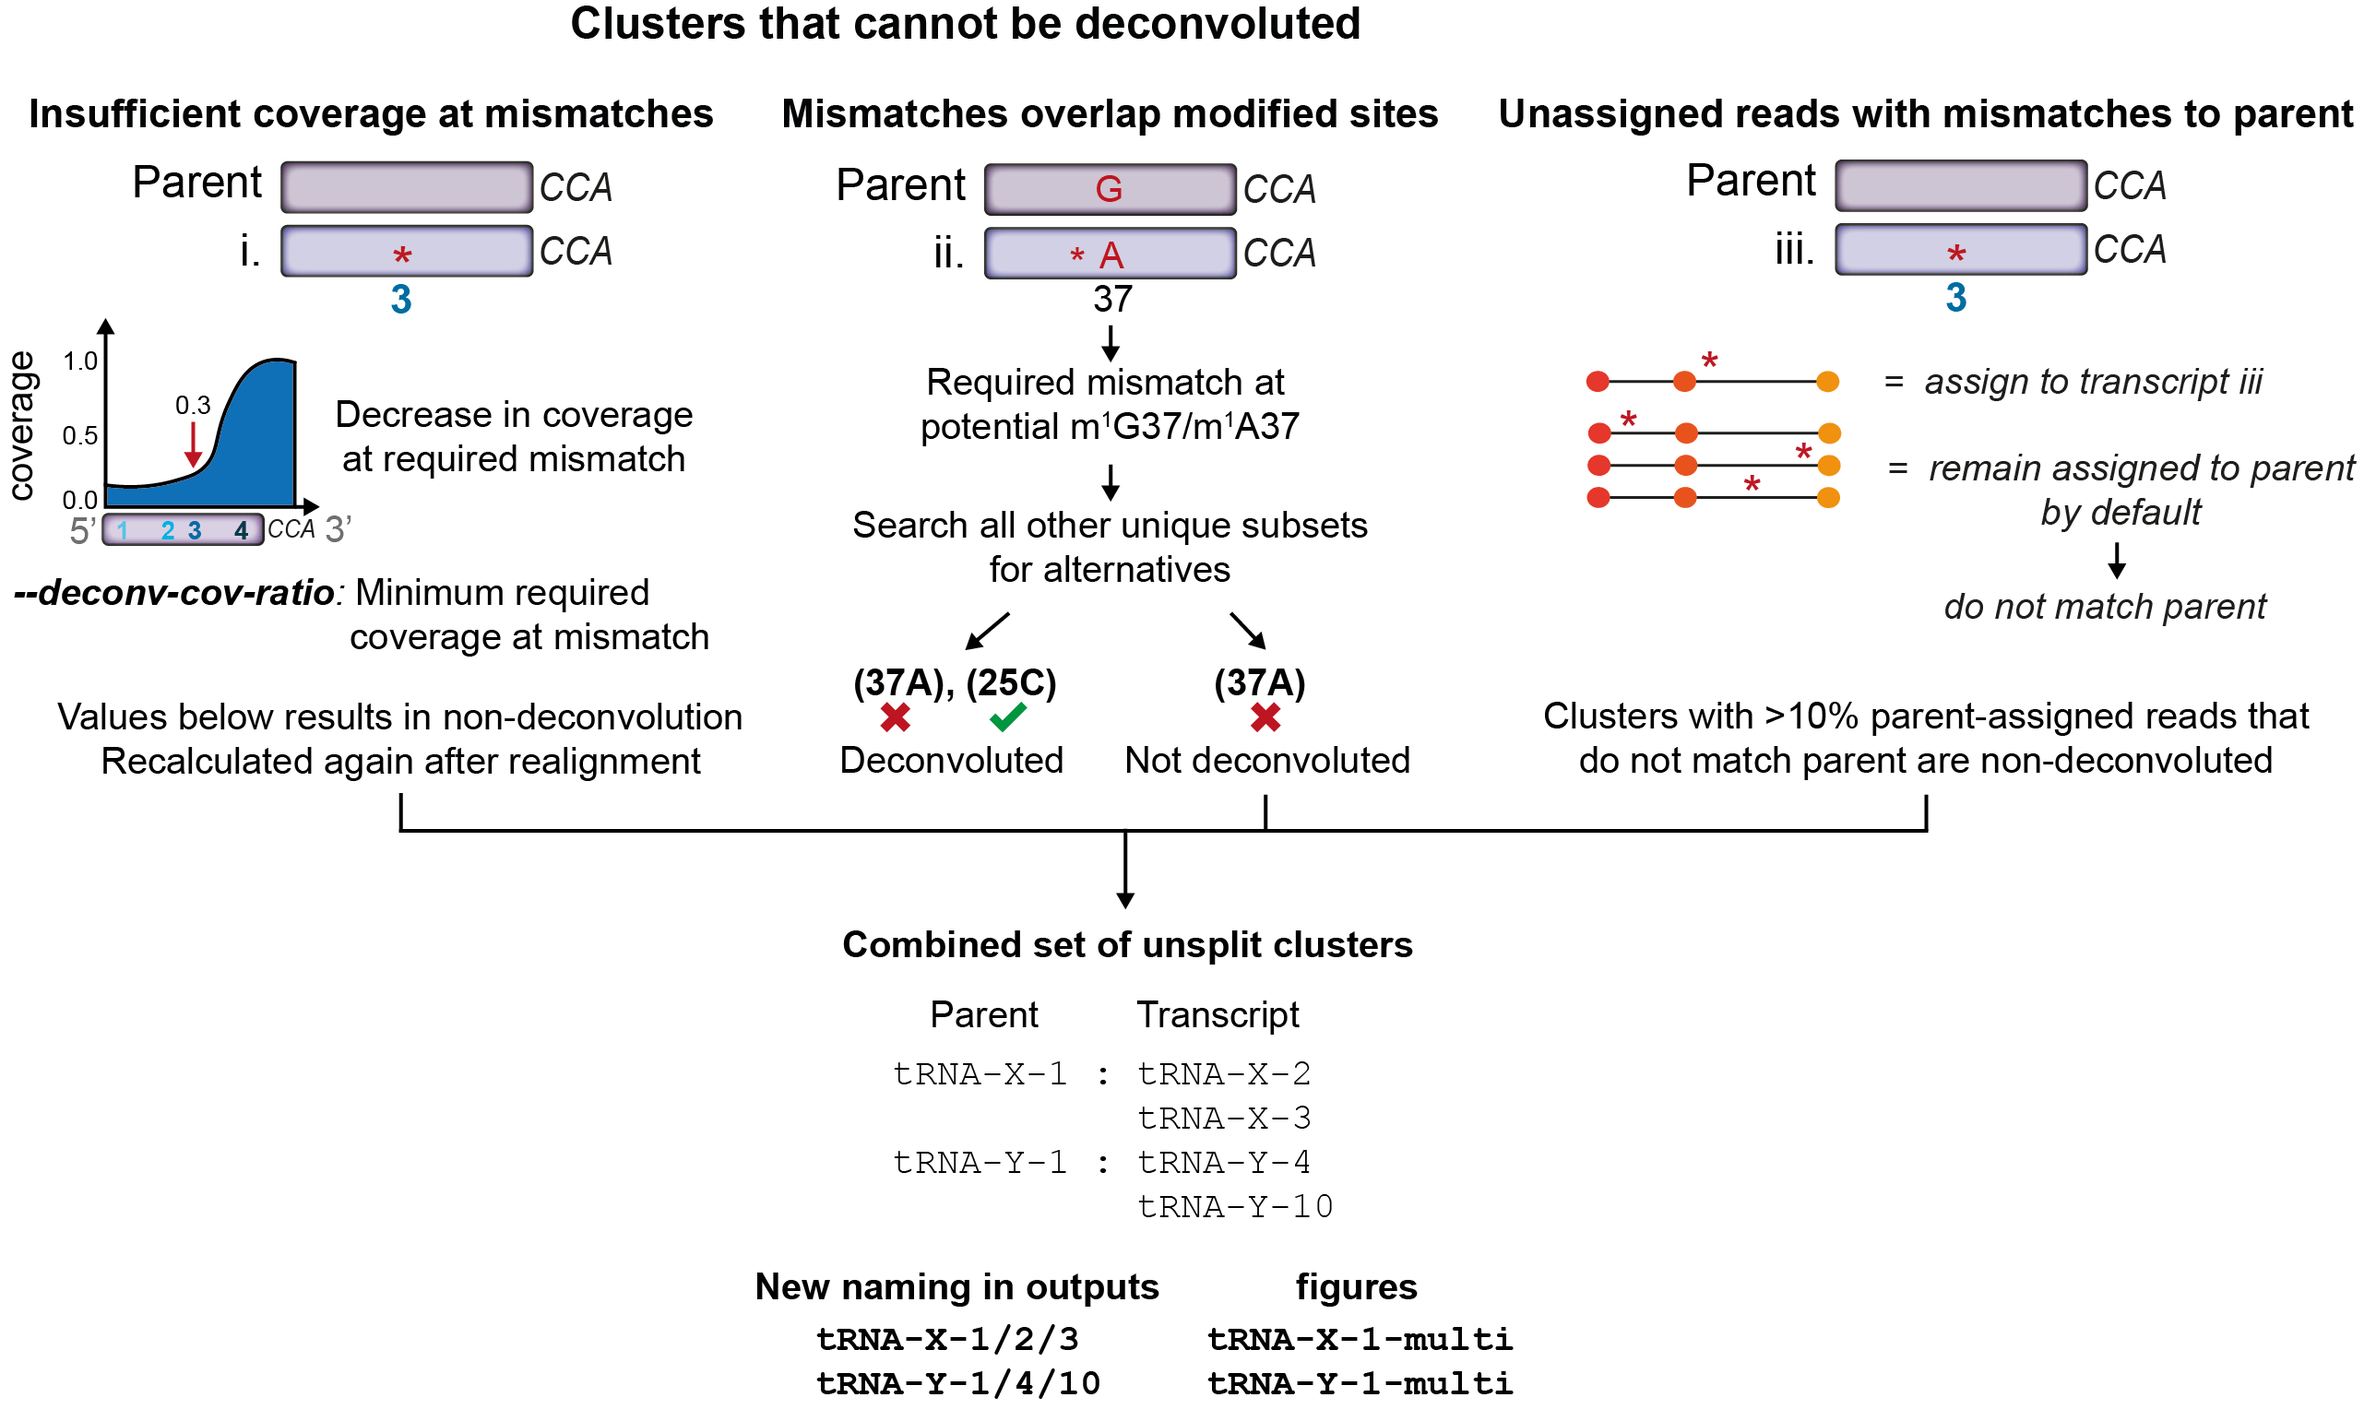
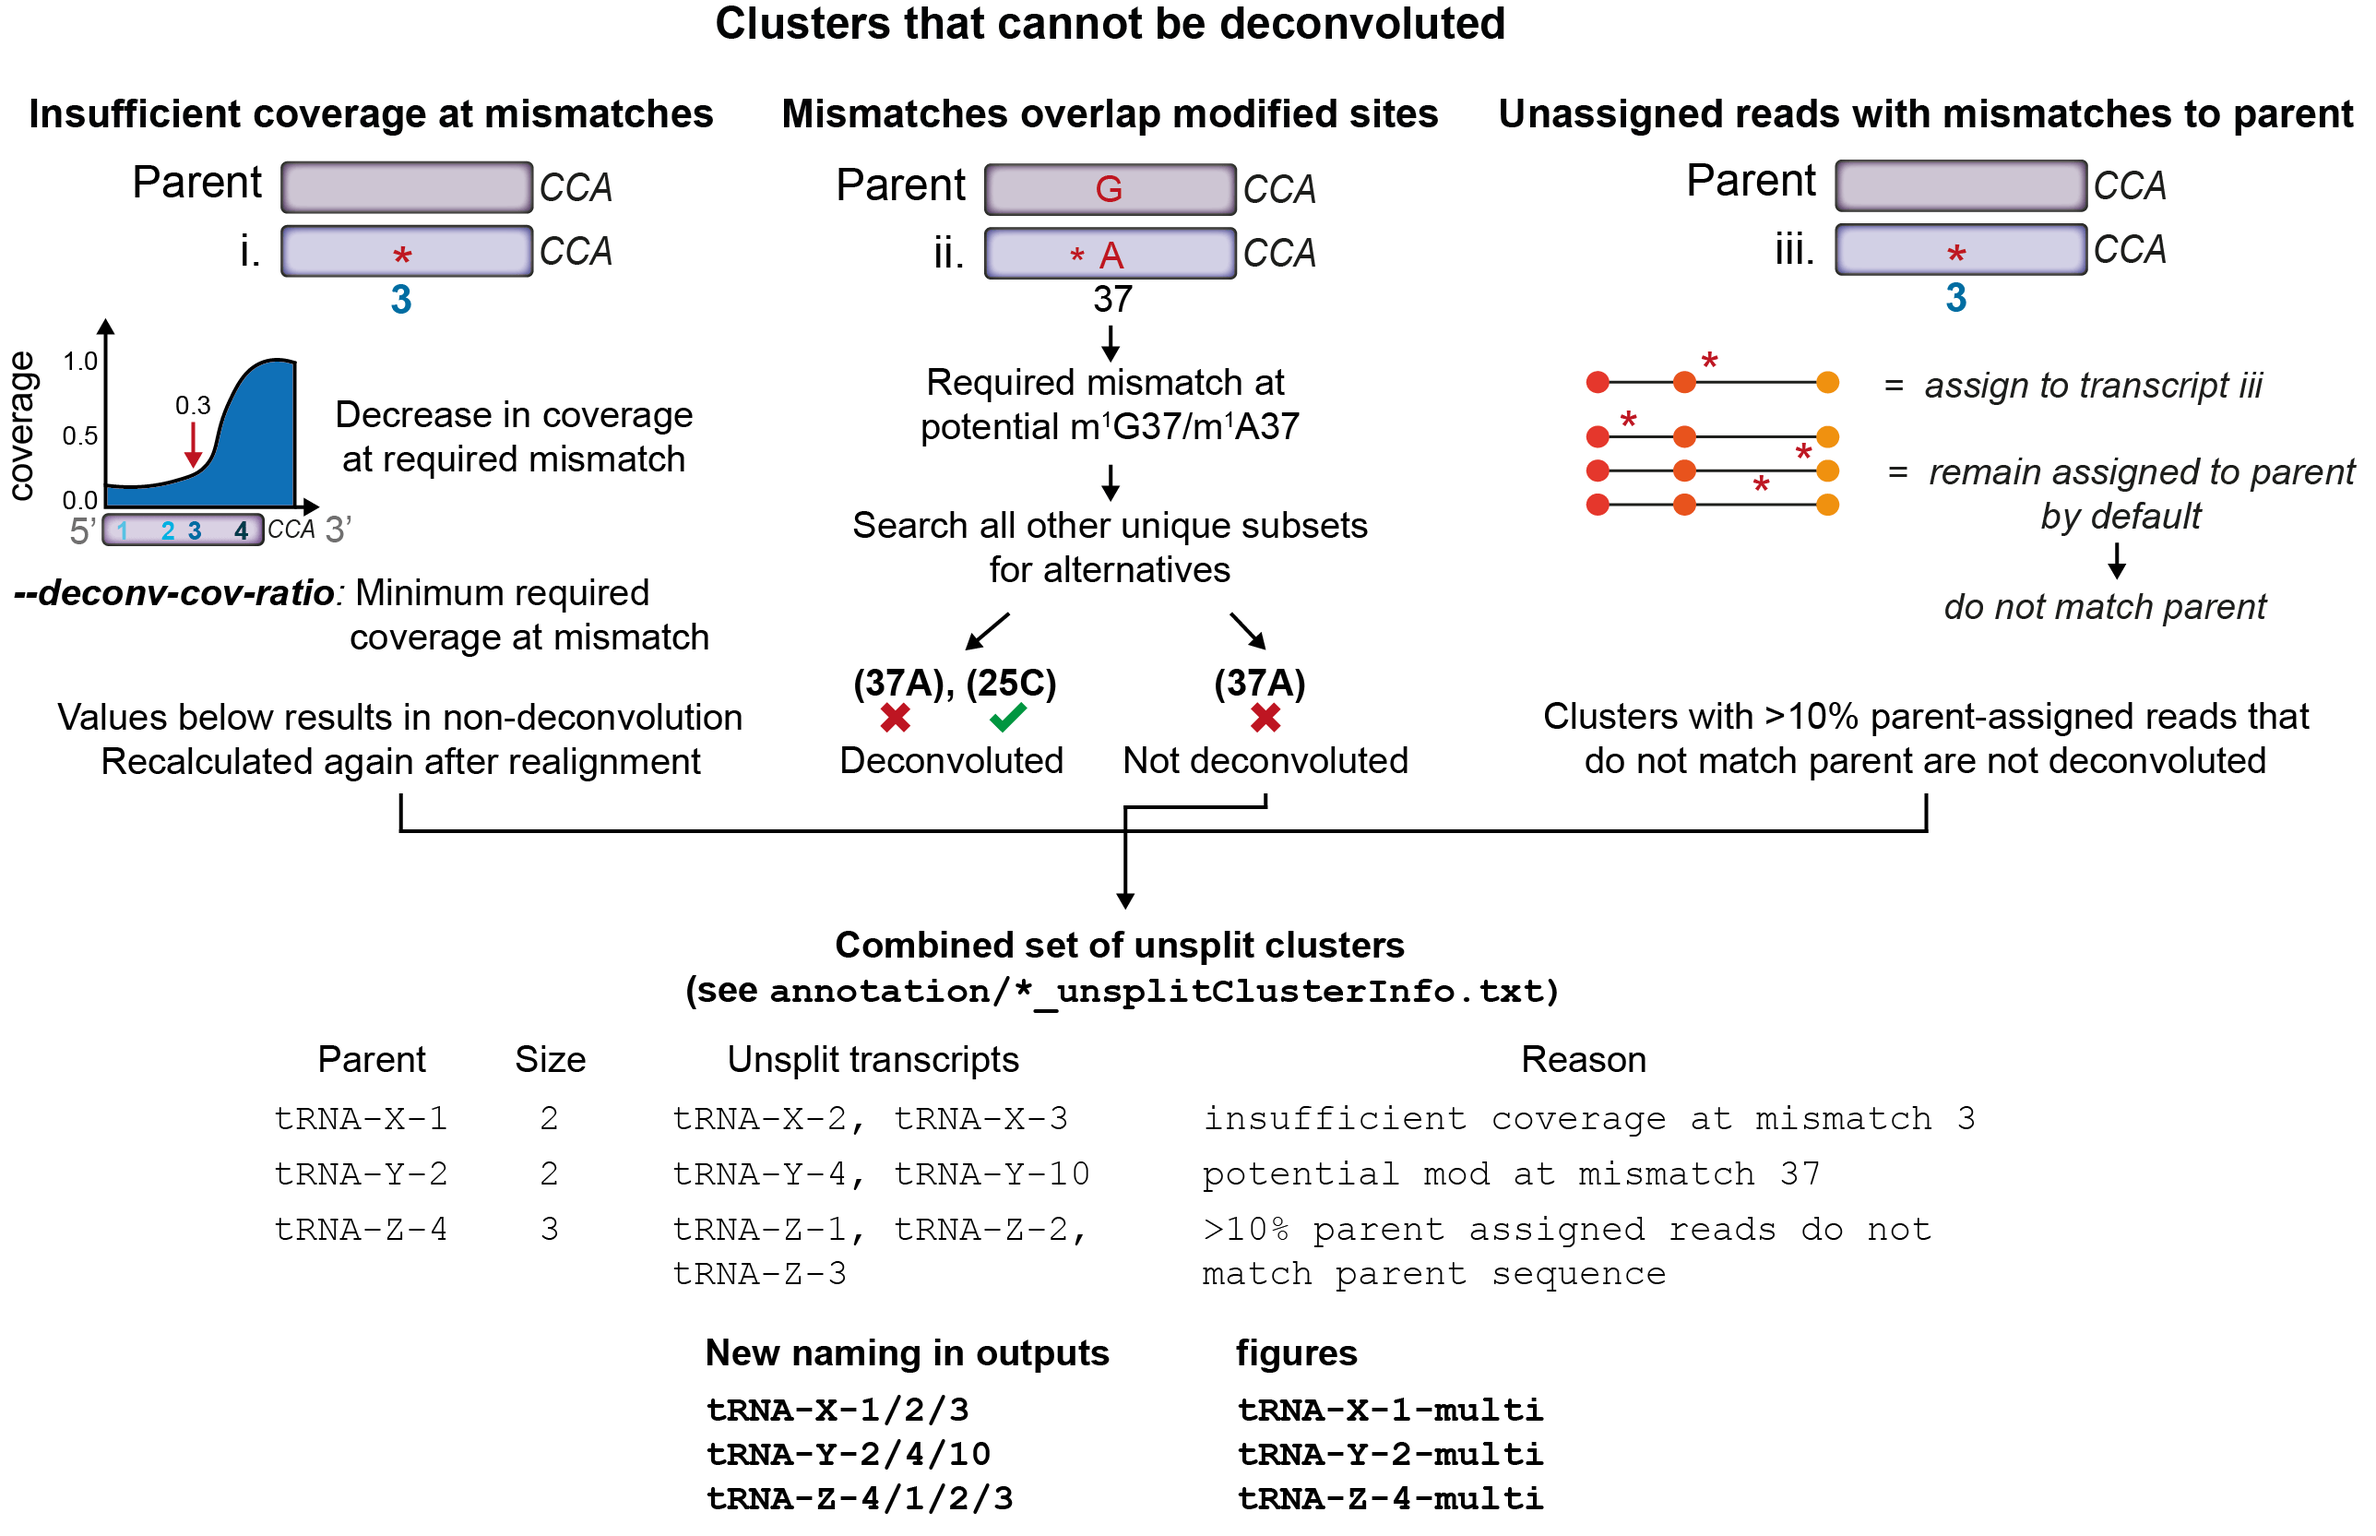
update docs v1

diff --git a/docs/source/intro.rst b/docs/source/intro.rst
@@ -21,11 +21,15 @@ Deconvolution
 
 Since v0.3, the deconvolution algorithm has been updated to consider all mismatches as a set for each unique isodecoder (see image above). This theoretically allows the distinction and deconvolution of all unique tRNA sequences, since by definition each unique sequence has a distinct set of mismatches. 
 
-Despite this, some clusters still have 3' coverage bias due to modifications that induce stops to RT. In these cases, complete deconvolution of reads for these sequences might not be possible if coverage at a mismatch defining that tRNA is significantly lower than at the 3' end of the tRNA (in this case, the number of reads assigned to this sequence will be underestimated). In order to overcome this, the *--deconv-cov-ratio* parameter can be used to set a threshold for this difference in coverage. Sequences not passing this threshold will be marked as not deconvoluted. 
+Despite this, there are 3 reasons why some clusters, or particular transcripts in a cluster, cannot be deconvoluted. See the image below for an overview of the handling of clusters that cannot be deconvoluted.
 
-Furthermore, some tRNAs may only be distinguishable from the parent cluster by positions that might also be modified sites. In these cases, it becomes impossible to tell if a mismatch in a read is because it belongs to a member of the cluster, or if it is due to misincorporations at the modification. Such tRNA transcripts (and the parent of the cluster) are also labelled as not deconvoluted.
-See the image below for an overview of the handling of clusters that cannot be deconvoluted.
+Firstly, some clusters still have 3' coverage bias due to modifications that induce stops to RT. In these cases, complete deconvolution of reads for these sequences might not be possible if coverage at a mismatch defining that tRNA is significantly lower than at the 3' end of the tRNA (in this case, the number of reads assigned to this sequence will be underestimated). In order to overcome this, the *--deconv-cov-ratio* parameter can be used to set a threshold for this difference in coverage. Sequences not passing this threshold will be marked as not deconvoluted. 
 
-As of v0.4, transcripts that are not deconvoluted are renamed to provide details on which transcripts remain clustered. These are then treated as other single transcripts for differential expression analysis, modification profiling, and other downstream analyses. For example, if Ala-AGC-1 and Ala-AGC-2 are clustered and cannot be deconvoluted due to either insufficient coverage, or mismatches at modified sites, these two transcripts will remain clustered, be renamed to Ala-AGC1/2 (the parent isodecoder number for the cluster is always listed first), and appear as a single entry for counts, modification analysis and coverage data. For the purpose of readability in plots, the naming of unsplit clusters is shown as Ala-AGC-1-multi. This is particularly useful for clusters with many unsplit sequences as these have unnecessarily long labels for display purposes.
+Secondly, some tRNAs may only be distinguishable from the parent cluster by positions that might also be modified sites. In these cases, it becomes impossible to tell if a mismatch in a read is due to mismatches between cluster members, or if it is due to misincorporations at the modification. Such tRNA transcripts (and the parent of the cluster) are also labelled as not deconvoluted.
+
+Lastly, reads that cannot be assigned to a transcript within a cluster are assumed to originate from the parent and are, by default, left assigned to the parent sequence. However, in some cases these parent-assigned reads also contain erroneous mismatches which indicate that they might not indeed to the parent transcript either. In our experience, these mismatches can arise from GSNAP incorrectly aligning reads containing indels (which sometimes seem to be induced by nearby modified sites), or some degree of misalignment of reads to an incorrect cluster. If 10% or more parent-assigned reads contain such mismatches, the entire cluster is not deconvoluted as these reads are likely to significantly impact the correct estimation of parent abundance, and can also impact the deconvolution choice made my mim-tRNAseq for other members of the cluster. 
+
+Transcripts that are not deconvoluted are renamed to provide details on which transcripts remain clustered. These are then treated as other single transcripts for differential expression analysis, modification profiling, and other downstream analyses. For example, if Ala-AGC-1 and Ala-AGC-2 are clustered and cannot be deconvoluted, these two transcripts will remain clustered, be renamed to Ala-AGC1/2 (the parent isodecoder number for the cluster is always listed first), and appear as a single entry for counts, modification analysis, differential expression, and coverage data. For the purpose of readability in plots, the naming of unsplit clusters is shown as Ala-AGC-1-multi. This is particularly useful for clusters with many unsplit sequences as these have unnecessarily long labels for display purposes.
+
 
 .. image:: ../img/unsplitDeconv.png

diff --git a/docs/source/index.rst b/docs/source/index.rst
@@ -11,7 +11,7 @@ mim-tRNAseq
 
 :Author: Drew Behrens
 
-:Version: 0.4
+:Version: 1
 
 Modification-induced misincorporation tRNA sequencing.
 
